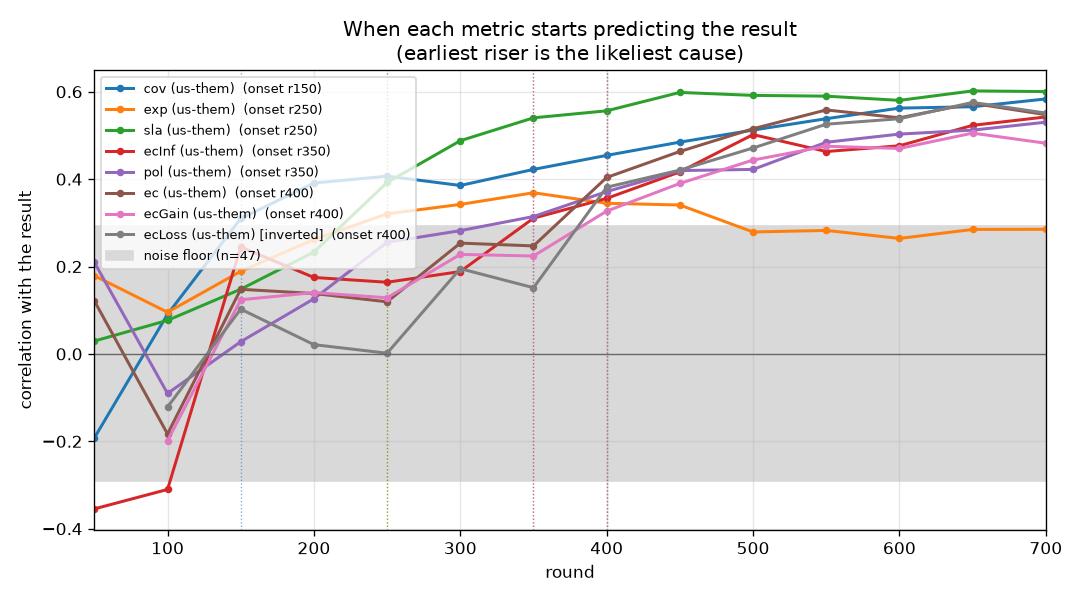
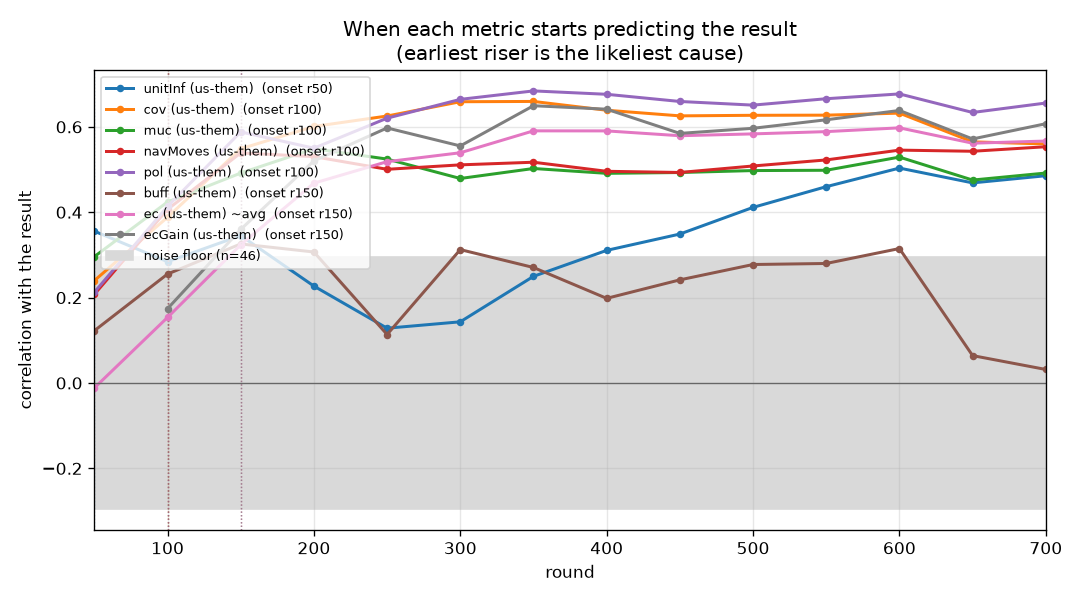
Pre-register Iteration 38: re-test coverage now that expansion can use it
Our centre count at r100 against the four strong opponents predicts the
result almost monotonically: 18% at one centre, 40% at two, 57% at three.
In losses we see less than half the map they do at r200 (145 tiles to 338)
and field 17 muckrakers to their 48, because our scout cap is six.

Iteration 33 rejected more sweeping at 51.7%, but that ran when knowing
about a neutral bought nothing: no influence to capture with, a capturer cap
of 2, and captured centres still listed as neutral. All three are fixed.

Claude-Session: https://claude.ai/code/session_01VgeNHsn9ncLsLui8RaK6L7

diff --git a/progress/ONSET.md b/progress/ONSET.md
@@ -1,6 +1,6 @@
 # Which metric starts predicting the result first
 
-47 games, 19 wins. Noise floor about 0.29; a correlation inside that band is not evidence.
+46 games, 33 wins. Noise floor about 0.29; a correlation inside that band is not evidence.
 
 Every metric is oriented so **higher is better for us**, so a positive correlation always means
 "this being better goes with winning". `~avg` is the running mean over all rounds so far rather than
@@ -12,32 +12,32 @@ See `progress/METRICS.md` for how each quantity is computed.
 
 | onset | anti | metric | peak corr | r50 | r100 | r200 | r300 | r400 | r600 |
 |---|---|---|---|---|---|---|---|---|---|
-| r150 | - | cov (us-them) | +0.58 | -0.19 | +0.09 | +0.39 | +0.39 | +0.45 | +0.56 |
-| r200 | - | cov (us-them) ~avg | +0.51 | -0.19 | +0.02 | +0.31 | +0.35 | +0.40 | +0.49 |
-| r250 | - | exp (us-them) | +0.37 | +0.18 | +0.10 | +0.26 | +0.34 | +0.34 | +0.26 |
-| r250 | - | sla (us-them) | +0.60 | +0.03 | +0.08 | +0.23 | +0.49 | +0.56 | +0.58 |
-| r300 | - | exp (us-them) ~avg | +0.36 | +0.18 | +0.10 | +0.23 | +0.32 | +0.35 | +0.33 |
-| r300 | - | sla (us-them) ~avg | +0.61 | +0.03 | +0.06 | +0.16 | +0.34 | +0.48 | +0.60 |
-| r350 | r50 | ecInf (us-them) | +0.54 | -0.35 | -0.31 | +0.18 | +0.19 | +0.36 | +0.48 |
-| r350 | - | pol (us-them) | +0.53 | +0.21 | -0.09 | +0.13 | +0.28 | +0.37 | +0.50 |
-| r400 | - | ec (us-them) | +0.57 | +0.12 | -0.18 | +0.14 | +0.25 | +0.40 | +0.54 |
-| r400 | - | ecGain (us-them) | +0.51 | . | -0.20 | +0.14 | +0.23 | +0.33 | +0.47 |
-| r400 | - | ecLoss (us-them) [inverted] | +0.58 | . | -0.12 | +0.02 | +0.20 | +0.38 | +0.54 |
-| r400 | - | pol (us-them) ~avg | +0.48 | +0.21 | -0.00 | +0.07 | +0.20 | +0.30 | +0.45 |
-| r400 | - | unitInf (us-them) | +0.54 | +0.27 | +0.29 | +0.22 | +0.23 | +0.30 | +0.45 |
-| r450 | r50 | ecInf (us-them) ~avg | +0.55 | -0.35 | -0.39 | +0.16 | +0.19 | +0.29 | +0.50 |
-| r500 | - | ec (us-them) ~avg | +0.47 | +0.12 | -0.14 | +0.11 | +0.12 | +0.23 | +0.42 |
-| r500 | - | ecLoss (us-them) [inverted] ~avg | +0.48 | . | -0.12 | +0.03 | +0.06 | +0.21 | +0.42 |
-| r500 | - | navMoves (us-them) | +0.45 | -0.01 | +0.07 | +0.04 | +0.12 | +0.23 | +0.39 |
-| r500 | - | unitInf (us-them) ~avg | +0.45 | +0.27 | +0.29 | +0.23 | +0.24 | +0.27 | +0.38 |
-| r550 | - | ecGain (us-them) ~avg | +0.39 | . | -0.20 | +0.09 | +0.11 | +0.19 | +0.34 |
-| r550 | - | muc (us-them) | +0.43 | +0.00 | +0.06 | +0.12 | +0.07 | +0.18 | +0.36 |
-| r600 | - | navMoves (us-them) ~avg | +0.36 | -0.01 | +0.06 | +0.05 | +0.09 | +0.16 | +0.31 |
-| r700 | - | muc (us-them) ~avg | +0.31 | +0.00 | +0.04 | +0.10 | +0.07 | +0.11 | +0.25 |
-| - | - | buff (us-them) | +0.27 | +0.18 | +0.09 | +0.21 | +0.17 | +0.03 | +0.12 |
-| - | - | buff (us-them) ~avg | +0.28 | +0.18 | +0.09 | +0.20 | +0.24 | +0.20 | +0.18 |
-| - | r700 | navAba (us-them) [inverted] | -0.36 | -0.36 | -0.02 | +0.09 | +0.07 | -0.03 | -0.24 |
-| - | - | navAba (us-them) [inverted] ~avg | -0.36 | -0.36 | -0.05 | +0.06 | +0.07 | +0.03 | -0.13 |
+| r50 | - | unitInf (us-them) | +0.50 | +0.36 | +0.28 | +0.23 | +0.14 | +0.31 | +0.50 |
+| r50 | - | unitInf (us-them) ~avg | +0.40 | +0.36 | +0.30 | +0.29 | +0.18 | +0.23 | +0.38 |
+| r100 | - | cov (us-them) | +0.66 | +0.24 | +0.39 | +0.60 | +0.66 | +0.64 | +0.63 |
+| r100 | - | cov (us-them) ~avg | +0.64 | +0.24 | +0.37 | +0.56 | +0.61 | +0.63 | +0.62 |
+| r100 | - | muc (us-them) | +0.55 | +0.30 | +0.42 | +0.55 | +0.48 | +0.49 | +0.53 |
+| r100 | - | muc (us-them) ~avg | +0.52 | +0.30 | +0.39 | +0.52 | +0.52 | +0.48 | +0.49 |
+| r100 | - | navMoves (us-them) | +0.55 | +0.21 | +0.41 | +0.53 | +0.51 | +0.50 | +0.55 |
+| r100 | - | navMoves (us-them) ~avg | +0.53 | +0.21 | +0.38 | +0.53 | +0.52 | +0.50 | +0.51 |
+| r100 | - | pol (us-them) | +0.68 | +0.21 | +0.41 | +0.55 | +0.66 | +0.68 | +0.68 |
+| r100 | - | pol (us-them) ~avg | +0.65 | +0.21 | +0.36 | +0.54 | +0.62 | +0.64 | +0.65 |
+| r150 | - | buff (us-them) | +0.33 | +0.12 | +0.26 | +0.31 | +0.31 | +0.20 | +0.31 |
+| r150 | - | buff (us-them) ~avg | +0.35 | +0.12 | +0.26 | +0.35 | +0.30 | +0.32 | +0.35 |
+| r150 | - | ec (us-them) ~avg | +0.60 | -0.01 | +0.15 | +0.47 | +0.54 | +0.59 | +0.60 |
+| r150 | - | ecGain (us-them) | +0.65 | . | +0.17 | +0.52 | +0.56 | +0.64 | +0.64 |
+| r150 | - | ecGain (us-them) ~avg | +0.60 | . | +0.20 | +0.48 | +0.54 | +0.58 | +0.60 |
+| r150 | - | exp (us-them) | +0.56 | +0.14 | +0.26 | +0.34 | +0.37 | +0.49 | +0.56 |
+| r150 | - | exp (us-them) ~avg | +0.53 | +0.14 | +0.26 | +0.33 | +0.31 | +0.40 | +0.49 |
+| r200 | - | ec (us-them) | +0.67 | -0.01 | +0.17 | +0.54 | +0.55 | +0.65 | +0.62 |
+| r200 | - | ecInf (us-them) | +0.62 | +0.13 | +0.28 | +0.36 | +0.40 | +0.46 | +0.60 |
+| r200 | - | ecInf (us-them) ~avg | +0.64 | +0.14 | +0.32 | +0.33 | +0.39 | +0.46 | +0.61 |
+| r200 | - | ecLoss (us-them) [inverted] | +0.52 | . | . | +0.39 | +0.34 | +0.52 | +0.48 |
+| r250 | - | ecLoss (us-them) [inverted] ~avg | +0.45 | . | . | +0.27 | +0.33 | +0.45 | +0.44 |
+| r250 | - | sla (us-them) | +0.67 | +0.09 | +0.13 | +0.29 | +0.44 | +0.53 | +0.67 |
+| r250 | - | sla (us-them) ~avg | +0.58 | +0.10 | +0.12 | +0.26 | +0.36 | +0.43 | +0.57 |
+| - | r350 | navAba (us-them) [inverted] | -0.52 | -0.00 | -0.17 | -0.12 | -0.23 | -0.28 | -0.47 |
+| - | r550 | navAba (us-them) [inverted] ~avg | -0.45 | -0.03 | -0.17 | -0.14 | -0.20 | -0.20 | -0.36 |
 | - | - | navSwamp (us-them) [inverted] | . | . | . | . | . | . | . |
 | - | - | navSwamp (us-them) [inverted] ~avg | . | . | . | . | . | . | . |
 

diff --git a/TRAINING_LOG.md b/TRAINING_LOG.md
@@ -3659,3 +3659,55 @@ a workflow that no longer exists and named three artefacts that never did
 strategy section was still headed "not yet measured against strong opponents"
 after eleven iterations; and `DESIGN.md`, which was missing `Roles.java` and any
 description of the centre's build chain.
+
+## Iteration 38 (in development, scouting) -- coverage, re-tested now that expansion works
+
+Mined from the `g_iter9` block, restricted to the **four strong opponents**
+(awesomelemonade, rzhan11, Scott-Poole, jmerle), because the four newly met bots
+are much weaker and inflate every raw correlation.
+
+**Our centre count at r100 predicts the result almost monotonically:**
+
+| our ECs at r100 | games | wins | rate |
+|---|---|---|---|
+| 1 | 11 | 2 | 18% |
+| 2 | 5 | 2 | 40% |
+| 3 | 7 | 4 | 57% |
+| 5 | 1 | 1 | 100% |
+
+And in the losses their count runs away while ours does not: `1/1 -> 1/4 -> 1/7`
+(FiveOfHearts), `2/2 -> 1/5 -> 1/7` (Legends), `1/1 -> 1/3 -> 0/5` (Hourglass).
+
+**Why we stop expanding: we cannot see the centres.** Coverage against the same
+four opponents (tiles a team has ever stood on):
+
+| round | us, wins | them, wins | us, losses | them, losses |
+|---|---|---|---|---|
+| 100 | 96 | 116 | 81 | 122 |
+| 200 | 234 | 302 | **145** | **338** |
+| 400 | 524 | 476 | 396 | 620 |
+
+In losses we see **less than half** the map they do at r200, and the coverage
+lead is the earliest honest predictor in the stratified ranking (+0.35 within
+opponent, onset r100). Muckraker count tracks it exactly: at r200 we field 17 to
+their 48. Our scout cap is `3 + round/300 + 3 if rich` -- six for most of the
+game, against the 22-48 they run.
+
+**This re-tests a rejection.** Iteration 33, "scouts keep sweeping instead of
+camping the enemy EC", was rejected at 51.7% over 240 games and the note read
+"coverage marks a winning position but is not a lever". That test ran before
+Iterations 35 and 37, when knowing about a neutral centre bought nothing: the
+guard sink left no influence to capture with, the capturer cap was 2, and a
+captured centre stayed on the neutral list. Knowledge with no way to act on it
+is worth nothing, which is what 51.7% said. All three are now fixed. This is the
+same enabling argument that made Iteration 37 work, and the same rule --
+re-test a rejection after removing the defect that prevented the mechanism from
+acting (TRAINING_ALGORITHM 6).
+
+**Dose 1.** Raise the scout cap so our muckraker count tracks the opponents'
+rather than sitting at six.
+
+**Counters before the gate.** Muckrakers at r200 rise from ~17 toward 30-45;
+coverage at r200 rises from ~145 toward their ~338; neutral centres known rises;
+and centres held at r100 rises. If coverage moves and captures do not, the
+change is knowledge without action again and must be rejected on that alone.
